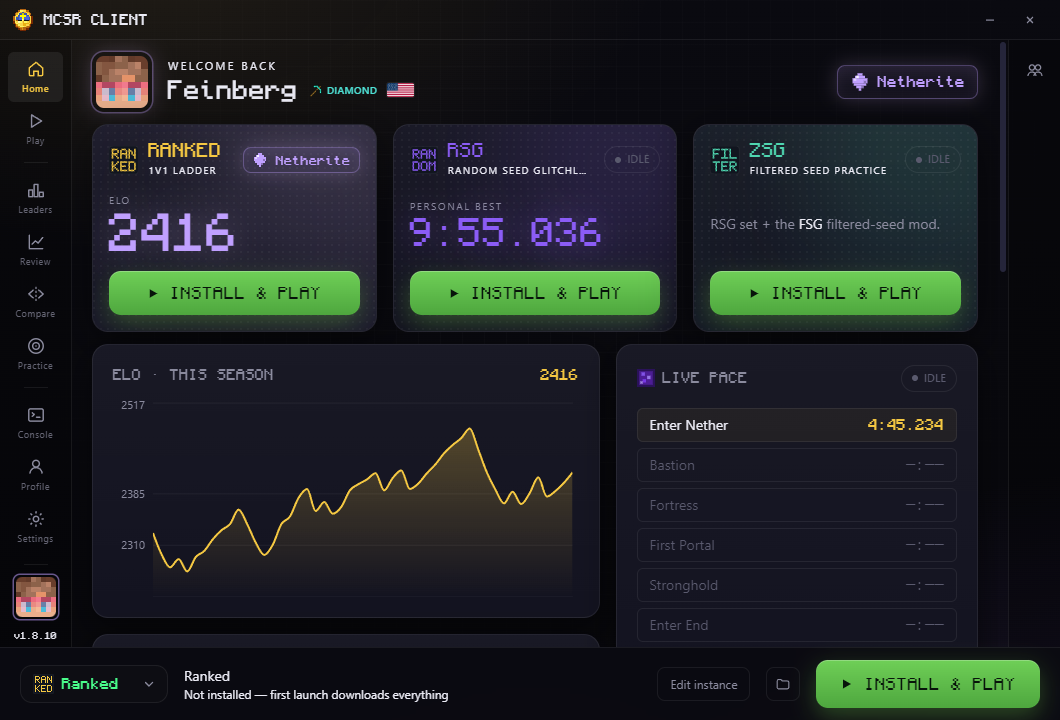
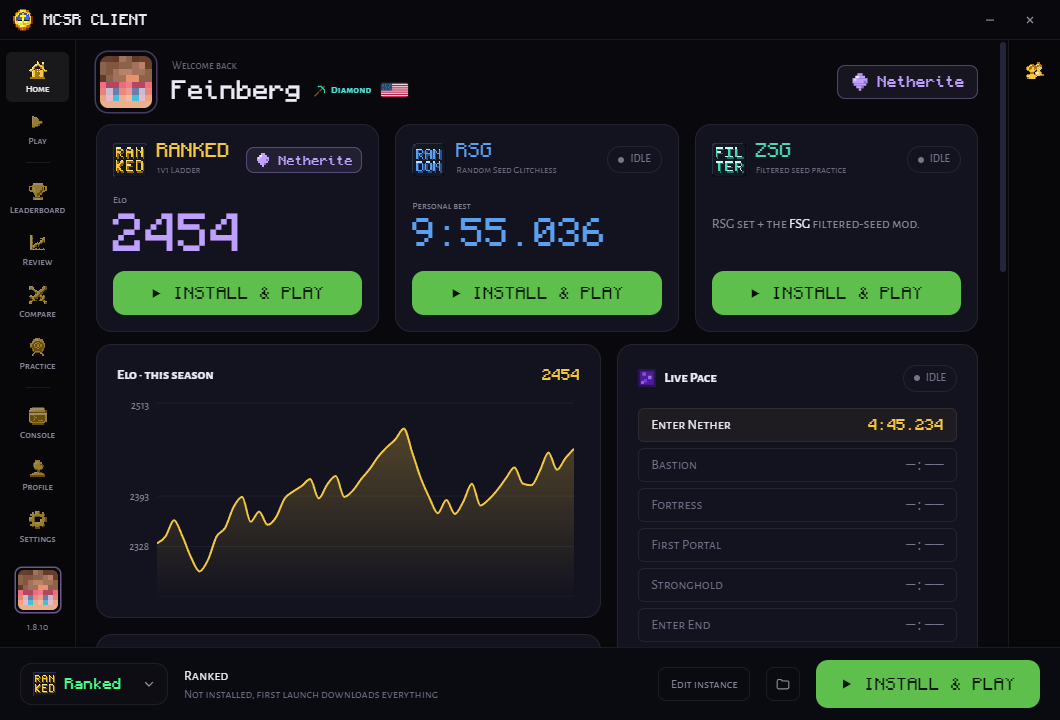
write up the readme

diff --git a/README.md b/README.md
@@ -1,13 +1,66 @@
 # MCSR Client
 
-Launcher and stats client for Minecraft 1.16.1 speedrunning (Ranked, RSG, ZSG).
+A launcher and stats client for Minecraft 1.16.1 speedrunning on Windows. It installs and runs the
+Ranked, RSG and ZSG setups for you and shows your MCSR Ranked and paceman stats in the same window.
 
-Download: https://github.com/xSIRDON/MCSR-Client/releases/latest (v1.8.10)
+**[Download the latest installer](https://github.com/xSIRDON/MCSR-Client/releases/latest)** (v1.8.10, updates itself after that)
+
+![home screen](.github/assets/home.png)
+
+## What it does
+
+**Instances**
+
+- Ranked: the MCSR Ranked pack, with the ranked mod pulled from Modrinth so it stays current.
+- RSG: the legal mod set without the ranked mod, plus SeedQueue with a wall already set up.
+- ZSG: the RSG set with FSG added.
+- Downloads Minecraft, Fabric and Java on first launch. No other launcher needed.
+- Runs the game on Java 21 with ZGC, since Java 8's GC pauses freeze the SeedQueue wall.
+- Sizes the SeedQueue settings and RAM to your PC before launch (can be turned off per instance).
+- Imports `options.txt`, `hotbar.nbt`, `config/`, resource packs and worlds from another instance.
+- Sign in with Microsoft. Multiple accounts are supported.
+
+**Ranked stats**
+
+- Elo, rank, win rate, streaks, best and average time, an Elo graph and your recent matches.
+  Open a match to see both players' splits side by side.
+- Leaderboard and player search, with any past season or career totals.
+- Review tab: each split ranked against the playerbase or against your own tier, the next tier's
+  median splits next to yours, and breakdowns by seed and bastion type.
+- Compare tab: two players head to head, with an estimated win chance.
+
+**RSG**
+
+- Starts the paceman tracker with the game and shows your live pace on the home page.
+- PB from paceman's PB table, recent runs with real splits, and the split funnel.
+- Ninjabrain Bot and Toolscreen are installed and started for you.
+
+**Practice**
+
+Pulls top-runner ranked matches from [GapCheck](https://gapcheck.gg), filtered by seed type,
+bastion, finish time, rank or runner. You get all four seeds to paste into a private room, then
+your splits against theirs once you've played it, with links to the runner's VOD at each split.
+
+**Friends**
+
+A friends list with presence and direct messages, plus a watchlist that shows when a runner is in a
+ranked match or on pace. Login uses the same Mojang session check a Minecraft server does, so
+there's no separate account. The server is in [`server/`](server/) if you want to host your own.
 
 ## Building
+
+Needs Node 22 or newer.
 
 ```
 npm install
 npm run dev
-npm run dist
 ```
+
+`npm run dist` builds the Windows installer into `release/`. `npm test` runs the tests.
+
+## Credits
+
+Thanks to the people behind MCSR Ranked, SeedQueue, FSG, Ninjabrain Bot, paceman, Toolscreen,
+Fabric and Modrinth, and to cylorun, Luxvored and marmarounos for GapCheck.
+
+MIT licensed.

diff --git a/server/README.md b/server/README.md
@@ -1,8 +1,8 @@
-# MCSR Client — friends server
+# Friends server
 
 The backend for mutual friend requests and "in the client" presence. One file, **zero
 dependencies** (Node 22.13+ with built-in SQLite). Identity is proven through Mojang's
-session server — the same handshake real Minecraft servers use — so there are no
+session server (the same handshake real Minecraft servers use), so there are no
 passwords or accounts to manage.
 
 ## Run it
@@ -13,12 +13,12 @@ SERVER_SECRET="any-long-random-string" node server.js
 
 | Env | Default | Notes |
 | --- | --- | --- |
-| `SERVER_SECRET` | *(required)* | HMAC key for session tokens. Generate once (`openssl rand -hex 32`), never change it casually — changing it signs everyone out. |
+| `SERVER_SECRET` | *(required)* | HMAC key for session tokens. Generate once (`openssl rand -hex 32`), changing it signs everyone out. |
 | `PORT` | `8787` | |
 | `DB_PATH` | `./friends.db` | SQLite file; put it on a persistent volume. |
-| `DEV_ALLOW_UNVERIFIED` | off | `1` skips Mojang verification. Local testing only — never in production. |
+| `DEV_ALLOW_UNVERIFIED` | off | `1` skips Mojang verification. Local testing only. |
 | `BIND` | `0.0.0.0` | Set to `127.0.0.1` when a TLS proxy fronts this, so the raw HTTP port isn't reachable from the internet. |
-| `TRUST_PROXY` | off | `1` makes the auth rate limiter read `X-Forwarded-For`. **Set this whenever you run behind a proxy** — otherwise every client shares one rate-limit bucket and a single caller can block all sign-ins. Only enable together with `BIND=127.0.0.1`, or a direct caller could spoof the header. |
+| `TRUST_PROXY` | off | `1` makes the auth rate limiter read `X-Forwarded-For`. Set this whenever you run behind a proxy, otherwise every client shares one rate-limit bucket and a single caller can block all sign-ins. Only enable together with `BIND=127.0.0.1`, or a direct caller could spoof the header. |
 
 ## Deploy (Railway / Fly / any VPS)
 
